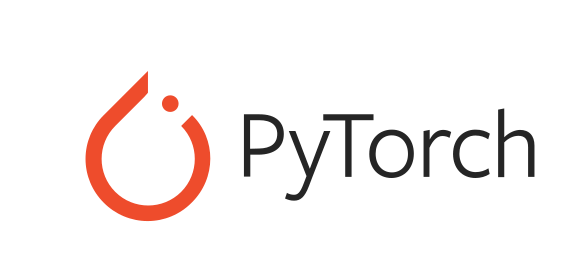
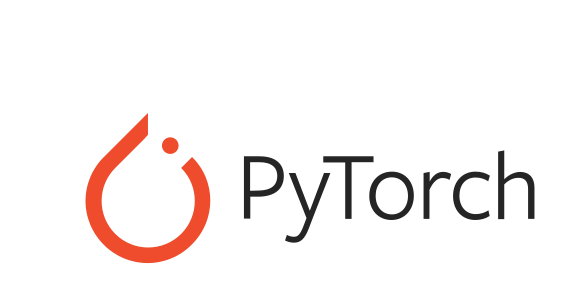
ADD IMAGE

Changed region(s): [[0.4205, 0.4047, 0.9611, 0.8405], [0.1502, 0.2802, 0.3905, 0.9339], [0.9311, 0.6848, 0.9611, 0.7782]]

diff --git a/README.md b/README.md
@@ -5,7 +5,7 @@
 
 <font size="4">Repositório criado para adicionar estudos e conteúdos práticos referentes a Machine Learning e Data Science</font><br>
 
-<img src= "images/PyTorch.png" align = "right" width= "650">
+<img src= "images/pt3.png" align = "right" width= "650">
 
 ## Aulas: PyTorch 🔥🤖
 
